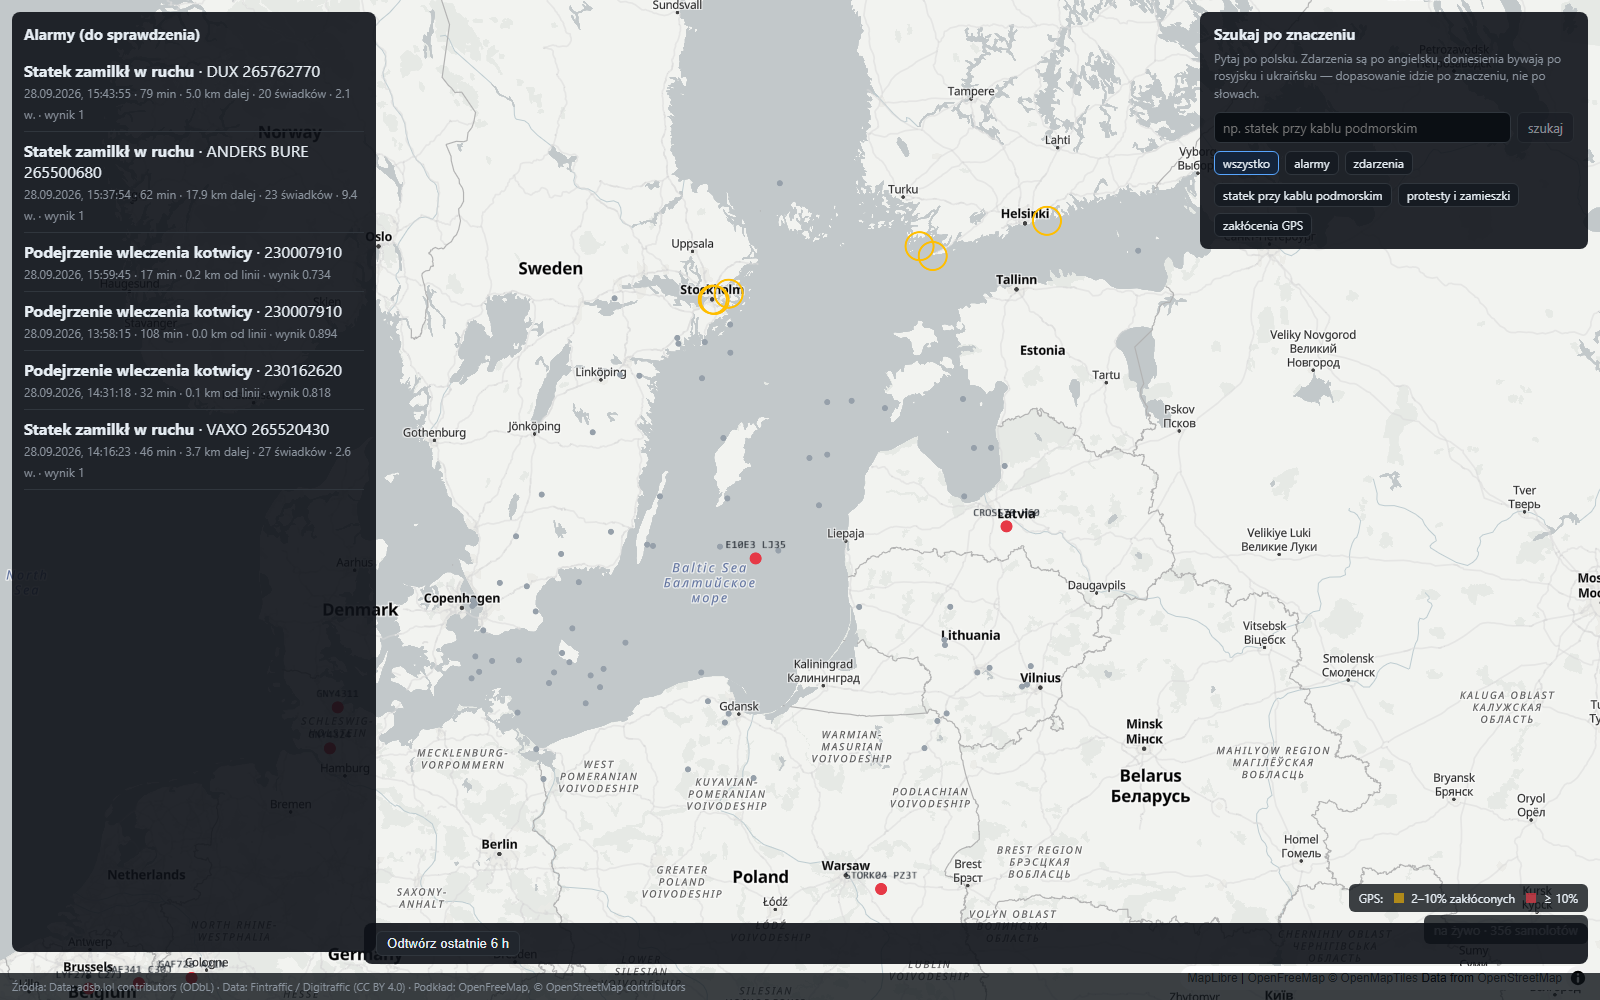
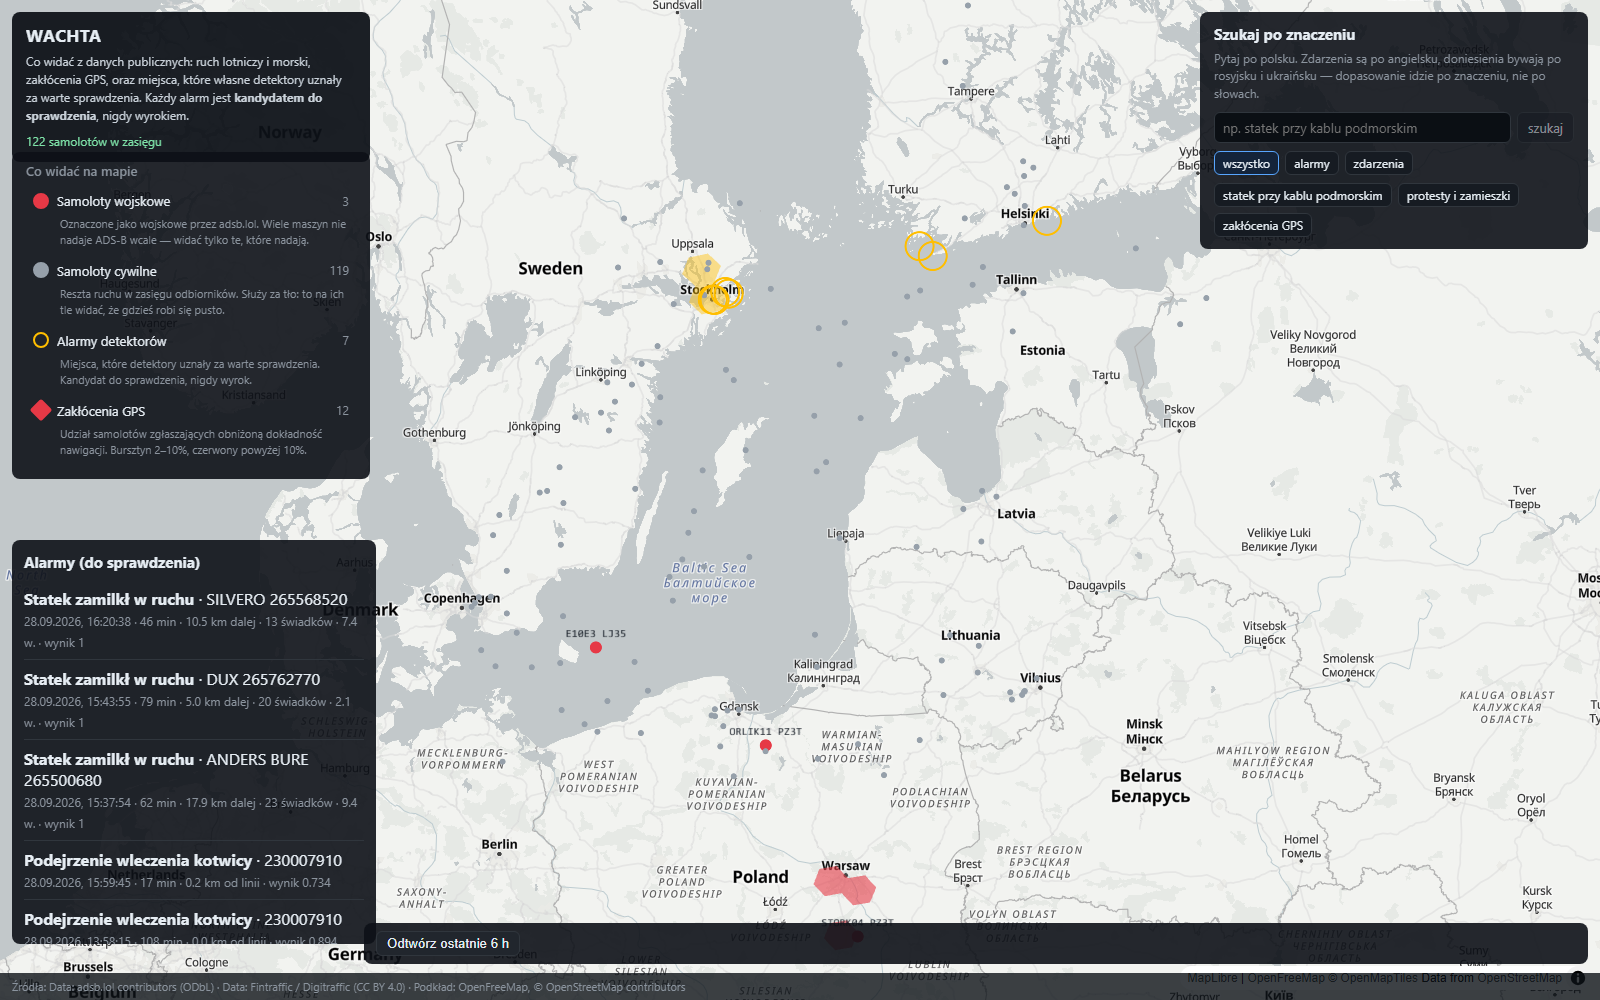
feat: say what the dots mean, and let the reader switch them off
The first person to open the application said: "I have no idea what this is, some
dots, nothing is clickable". That was fair. The only thing on screen that explained
a mark was a small GPS note in a corner; everything else was colour with no key.

Three things were missing and are now there.

A header that says what the application is before the reader has to guess, and
states the one thing that governs how everything else should be read: an alert is
a candidate to check, never a verdict.

A key that is also the switch. Each row names a kind of mark, says in a sentence
what it means, counts how many are on screen, and turns them off. The legend and
the layer control are one thing on purpose - a legend beside a picture gets
skipped, while turning a layer off is the fastest way to find out what its marks
were.

The descriptions carry the limits rather than only the labels: military aircraft
are only the ones that transmit at all, civil traffic is there as the background
that makes an empty patch visible, and alerts are candidates.

And a line that says whether the data is arriving. A map with every layer switched
off looks exactly like a map with no data, and a connected feed with nothing in it
looks exactly like a broken one - so each of those states now says which it is.
The reader is responsible for the first, the system for the others, and conflating
them wastes somebody's afternoon.

Layers are filtered by hiding their DATA rather than the layer, because an empty
[…]

diff --git a/web/src/warstwy.ts b/web/src/warstwy.ts
@@ -1,0 +1,103 @@
+import { GREY, RED } from "./colors";
+
+/**
+ * What is on the map, in words, together with the switch that isolates it.
+ *
+ * The legend and the layer control are one thing here on purpose. A separate legend is a block of
+ * text next to a picture, and people skip it; a legend you can click is how you find out what a
+ * mark means - turn it off, see what disappeared. The first version of this view had neither, and
+ * the first person to open it said "some dots, nothing is clickable, I have no idea what this is".
+ */
+
+export type IdWarstwy = "wojskowe" | "cywilne" | "alarmy" | "zaklocenia";
+
+export interface OpisWarstwy {
+  id: IdWarstwy;
+  nazwa: string;
+  /** One sentence: what the mark means, not what it is called. */
+  opis: string;
+  kolor: string;
+  ksztalt: "kropka" | "obwodka" | "heksagon";
+}
+
+const rgb = ([r, g, b]: [number, number, number]) => `rgb(${r},${g},${b})`;
+
+export const WARSTWY: OpisWarstwy[] = [
+  {
+    id: "wojskowe",
+    nazwa: "Samoloty wojskowe",
+    opis: "Oznaczone jako wojskowe przez adsb.lol. Wiele maszyn nie nadaje ADS-B wcale — widać tylko te, które nadają.",
+    kolor: rgb(RED),
+    ksztalt: "kropka",
+  },
+  {
+    id: "cywilne",
+    nazwa: "Samoloty cywilne",
+    opis: "Reszta ruchu w zasięgu odbiorników. Służy za tło: to na ich tle widać, że gdzieś robi się pusto.",
+    kolor: rgb(GREY),
+    ksztalt: "kropka",
+  },
+  {
+    id: "alarmy",
+    nazwa: "Alarmy detektorów",
+    opis: "Miejsca, które detektory uznały za warte sprawdzenia. Kandydat do sprawdzenia, nigdy wyrok.",
+    kolor: "rgb(255,190,0)",
+    ksztalt: "obwodka",
+  },
+  {
+    id: "zaklocenia",
+    nazwa: "Zakłócenia GPS",
+    opis: "Udział samolotów zgłaszających obniżoną dokładność nawigacji. Bursztyn 2–10%, czerwony powyżej 10%.",
+    kolor: "rgb(230,57,70)",
+    ksztalt: "heksagon",
+  },
+];
+
+export type Widoczne = Record<IdWarstwy, boolean>;
+
+export const WSZYSTKO_WIDOCZNE: Widoczne = {
+  wojskowe: true,
+  cywilne: true,
+  alarmy: true,
+  zaklocenia: true,
+};
+
+export function przelacz(stan: Widoczne, id: IdWarstwy): Widoczne {
+  return { ...stan, [id]: !stan[id] };
+}
+
+/**
+ * Whether the map is showing nothing at all.
+ *
+ * Worth knowing, because a map with every layer switched off looks exactly like a map with no data,
+ * and the second one is somebody's fault while the first one is the reader's own doing.
+ */
+export function wszystkoWylaczone(stan: Widoczne): boolean {
+  return Object.values(stan).every((v) => !v);
+}
+
+/** How many marks a layer currently contributes, for the counter next to its name. */
+export function policz(
+  id: IdWarstwy,
+  liczby: { wojskowe: number; cywilne: number; alarmy: number; zaklocenia: number },
+): number {
+  return liczby[id];
+}
+
+/**
+ * The sentence under the header: what the reader is looking at and how fresh it is.
+ *
+ * Freshness is not decoration. Every layer here is a snapshot of a moment, and a map that does not
+ * say when it was taken invites the reader to assume it is now.
+ */
+export function stanDanych(polaczone: boolean, samolotow: number, sekundOdOdczytu: number | null): string {
+  if (!polaczone) return "Łączenie z serwerem…";
+  if (samolotow === 0) return "Połączono, ale żaden samolot nie jest teraz widoczny.";
+  const wiek =
+    sekundOdOdczytu === null
+      ? ""
+      : sekundOdOdczytu < 60
+        ? " · dane sprzed chwili"
+        : ` · dane sprzed ${Math.round(sekundOdOdczytu / 60)} min`;
+  return `${samolotow} samolotów w zasięgu${wiek}`;
+}

diff --git a/web/src/App.tsx b/web/src/App.tsx
@@ -5,6 +5,7 @@ import { AlertsPanel } from "./components/AlertsPanel";
 import { BALTIC_VIEW, MapView } from "./components/MapView";
 import { ReplayBar } from "./components/ReplayBar";
 import { SearchPanel } from "./components/SearchPanel";
+import { Warstwy } from "./components/Warstwy";
 import { SourcesFooter } from "./components/SourcesFooter";
 import { aircraftLayers } from "./layers/aircraft";
 import { alertsLayer } from "./layers/alerts";
@@ -12,6 +13,7 @@ import { jammingLayer } from "./layers/jamming";
 import { tripsLayer } from "./layers/trips";
 import { useLive } from "./live";
 import { replayBounds, toTrips, type Trip } from "./replay";
+import { stanDanych, WSZYSTKO_WIDOCZNE, type Widoczne } from "./warstwy";
 
 export default function App() {
   const { aircraft, alerts, setAlerts, connected } = useLive();
@@ -20,6 +22,7 @@ export default function App() {
   const [replay, setReplay] = useState<{ trips: Trip[]; start: number; max: number } | null>(null);
   const [currentTime, setCurrentTime] = useState(0);
   const [playing, setPlaying] = useState(false);
+  const [widoczne, setWidoczne] = useState<Widoczne>(WSZYSTKO_WIDOCZNE);
 
   useEffect(() => {
     getJSON<AlertDto[]>("/api/alerts").then(setAlerts).catch(() => undefined);
@@ -53,19 +56,39 @@ export default function App() {
     setPlaying(true);
   };
 
+  // Filtrujemy DANE, nie warstwy: warstwa bez danych nadal sie rysuje (i nadal lapie klikniecia),
+  // a pusta lista znika z mapy calkowicie. Dzieki temu wylaczenie w panelu znaczy to, co widac.
+  const widoczneSamoloty = aircraft.filter((a) =>
+    a.isMilitary ? widoczne.wojskowe : widoczne.cywilne);
+  const widoczneAlarmy = widoczne.alarmy ? alerts : [];
+  const widoczneZaklocenia = widoczne.zaklocenia ? jamming : [];
+
+  const liczby = {
+    wojskowe: aircraft.filter((a) => a.isMilitary && !a.onGround).length,
+    cywilne: aircraft.filter((a) => !a.isMilitary && !a.onGround).length,
+    alarmy: alerts.length,
+    zaklocenia: jamming.length,
+  };
+
   const layers = replay
-    ? [jammingLayer(jamming), tripsLayer(replay.trips, currentTime), alertsLayer(alerts)]
-    : [jammingLayer(jamming), ...aircraftLayers(aircraft), alertsLayer(alerts)];
+    ? [jammingLayer(widoczneZaklocenia), tripsLayer(replay.trips, currentTime), alertsLayer(widoczneAlarmy)]
+    : [jammingLayer(widoczneZaklocenia), ...aircraftLayers(widoczneSamoloty), alertsLayer(widoczneAlarmy)];
 
   return (
     <div style={{ position: "fixed", inset: 0 }}>
       <MapView layers={layers} viewState={view} onViewStateChange={setView} />
       <AlertsPanel alerts={alerts} onSelect={(a) => setView({ ...view, longitude: a.lon, latitude: a.lat, zoom: 8 })} />
       <SearchPanel />
-      <div className="status status-pod-szukaniem">{connected ? `na żywo · ${aircraft.length} samolotów` : "łączenie…"}</div>
-      <div className="legend">
-        GPS: <i className="amber" /> 2–10% zakłóconych <i className="red" /> ≥ 10%
-      </div>
+      <header className="naglowek">
+        <h1>WACHTA</h1>
+        <p>
+          Co widać z danych publicznych: ruch lotniczy i morski, zakłócenia GPS, oraz miejsca, które
+          własne detektory uznały za warte sprawdzenia. Każdy alarm jest <b>kandydatem do
+          sprawdzenia</b>, nigdy wyrokiem.
+        </p>
+        <p className="stan">{stanDanych(connected, liczby.wojskowe + liczby.cywilne, null)}</p>
+      </header>
+      <Warstwy widoczne={widoczne} onZmiana={setWidoczne} liczby={liczby} />
       <ReplayBar
         active={!!replay}
         onToggle={toggleReplay}

diff --git a/web/src/warstwy.test.ts b/web/src/warstwy.test.ts
@@ -1,0 +1,89 @@
+import { describe, expect, it } from "vitest";
+import {
+  przelacz,
+  stanDanych,
+  WARSTWY,
+  wszystkoWylaczone,
+  WSZYSTKO_WIDOCZNE,
+} from "./warstwy";
+
+/**
+ * Pierwsza osoba, ktora otworzyla aplikacje, powiedziala: "nie wiem o co chodzi, jakies kropki,
+ * nic sie nie da klikac". Te testy pilnuja tego, co z tego wyniklo.
+ */
+
+describe("legenda", () => {
+  it("kazdy znak na mapie ma nazwe I zdanie, co znaczy", () => {
+    // Sama nazwa nie wystarczy: "alarmy" nie mowi, ze to kandydat do sprawdzenia, a nie wyrok.
+    for (const w of WARSTWY) {
+      expect(w.nazwa, w.id).toBeTruthy();
+      expect(w.opis.length, `${w.id} ma za krotki opis`).toBeGreaterThan(40);
+    }
+  });
+
+  it("opisy mowia o ograniczeniach, a nie tylko o tym, co widac", () => {
+    const wojskowe = WARSTWY.find((w) => w.id === "wojskowe");
+    expect(wojskowe?.opis).toMatch(/nie nadaje|widać tylko/i);
+    const alarmy = WARSTWY.find((w) => w.id === "alarmy");
+    expect(alarmy?.opis).toMatch(/sprawdzenia|nigdy wyrok/i);
+  });
+
+  it("kazda warstwa ma kolor i ksztalt, zeby znak w legendzie wygladal jak ten na mapie", () => {
+    for (const w of WARSTWY) {
+      expect(w.kolor, w.id).toMatch(/^rgb\(/);
+      expect(["kropka", "obwodka", "heksagon"]).toContain(w.ksztalt);
+    }
+  });
+});
+
+describe("wlaczanie i wylaczanie", () => {
+  it("na starcie widac wszystko", () => {
+    expect(Object.values(WSZYSTKO_WIDOCZNE).every(Boolean)).toBe(true);
+  });
+
+  it("przelaczenie zmienia tylko jedna warstwe", () => {
+    const po = przelacz(WSZYSTKO_WIDOCZNE, "cywilne");
+    expect(po.cywilne).toBe(false);
+    expect(po.wojskowe).toBe(true);
+    expect(po.alarmy).toBe(true);
+  });
+
+  it("przelaczenie dwa razy wraca do punktu wyjscia", () => {
+    expect(przelacz(przelacz(WSZYSTKO_WIDOCZNE, "alarmy"), "alarmy")).toEqual(WSZYSTKO_WIDOCZNE);
+  });
+
+  it("nie zmienia stanu w miejscu", () => {
+    const przed = { ...WSZYSTKO_WIDOCZNE };
+    przelacz(WSZYSTKO_WIDOCZNE, "alarmy");
+    expect(WSZYSTKO_WIDOCZNE).toEqual(przed);
+  });
+
+  it("wie, kiedy mapa jest pusta z winy uzytkownika", () => {
+    // Mapa z wylaczonymi warstwami wyglada identycznie jak mapa bez danych, a to dwie rozne rzeczy:
+    // za jedna odpowiada czytelnik, za druga system.
+    expect(wszystkoWylaczone(WSZYSTKO_WIDOCZNE)).toBe(false);
+    const nic = { wojskowe: false, cywilne: false, alarmy: false, zaklocenia: false };
+    expect(wszystkoWylaczone(nic)).toBe(true);
+  });
+});
+
+describe("stan danych", () => {
+  it("brak polaczenia mowi o polaczeniu, nie o braku samolotow", () => {
+    expect(stanDanych(false, 0, null)).toMatch(/Łączenie/);
+  });
+
+  it("polaczenie bez samolotow mowi wprost, ze polaczenie jest", () => {
+    // Inaczej pusta mapa wyglada jak awaria, a jest poprawnym stanem.
+    expect(stanDanych(true, 0, null)).toMatch(/Połączono/);
+  });
+
+  it("podaje wiek danych, bo migawka bez godziny udaje terazniejszosc", () => {
+    expect(stanDanych(true, 120, 30)).toMatch(/sprzed chwili/);
+    expect(stanDanych(true, 120, 600)).toMatch(/sprzed 10 min/);
+    expect(stanDanych(true, 120, null)).not.toMatch(/sprzed/);
+  });
+
+  it("liczy samoloty", () => {
+    expect(stanDanych(true, 442, null)).toMatch(/442 samolot/);
+  });
+});

diff --git a/web/src/styles.css b/web/src/styles.css
@@ -204,3 +204,82 @@ body {
    tekst. Schodzi nad pasek odtwarzania, obok statusu: obie rzeczy sa stalymi objasnieniami mapy,
    wiec ich miejsce jest przy mapie, a nie w obszarze, ktory sluzy do zadawania pytan. */
 .legend { top: auto; bottom: 88px; right: 12px; }
+
+/* NAGLOWEK. Pierwsza rzecz, ktora ktos czyta, i jedyna szansa, zeby powiedziec, na co patrzy.
+   Bez tego aplikacja zaczyna sie od kropek na mapie - a pierwsza osoba, ktora ja otworzyla,
+   powiedziala doslownie "nie wiem o co chodzi, jakies kropki". */
+.naglowek {
+  position: absolute;
+  top: 12px;
+  left: 12px;
+  width: 330px;
+  padding: 12px 14px;
+  background: #0d1117f0;
+  border-radius: 8px;
+}
+.naglowek h1 { margin: 0 0 6px; font-size: 17px; letter-spacing: 0.5px; }
+.naglowek p { margin: 0; font-size: 12px; line-height: 1.5; color: #c9d1d9; }
+.naglowek .stan { margin-top: 8px; color: #7ee2a8; font-size: 12px; }
+
+/* LEGENDA, KTORA JEST TEZ WYLACZNIKIEM. Osobna legenda to podpis obok obrazka i ludzie ja pomijaja;
+   legenda, ktora da sie kliknac, jest najszybszym sposobem na sprawdzenie, co znaczyl dany znak -
+   wylacz go i zobacz, co znikneło. */
+.warstwy {
+  position: absolute;
+  top: 152px;
+  left: 12px;
+  width: 330px;
+  max-height: calc(100vh - 360px);
+  overflow-y: auto;
+  padding: 10px 14px 12px;
+  background: #0d1117e6;
+  border-radius: 8px;
+}
+.warstwy h2 { margin: 0 0 8px; font-size: 13px; color: #8b949e; font-weight: 600; }
+.warstwy ul { list-style: none; margin: 0; padding: 0; }
+.warstwy li { margin-bottom: 9px; }
+
+.warstwy li > button {
+  display: flex;
+  align-items: center;
+  gap: 8px;
+  width: 100%;
+  padding: 4px 6px;
+  border: 1px solid transparent;
+  border-radius: 6px;
+  background: none;
+  color: inherit;
+  font: inherit;
+  text-align: left;
+  cursor: pointer;
+}
+.warstwy li > button:hover { background: #161b22; }
+.warstwy li > button:focus-visible { outline: 2px solid #58a6ff; outline-offset: 1px; }
+
+/* Wylaczona warstwa ma byc widocznie wylaczona, ale dalej czytelna - to nadal jest legenda. */
+.warstwy .wylaczona { opacity: 0.42; }
+.warstwy .wylaczona .znak { background: none !important; }
+
+.warstwy .nazwa { flex: 1; font-size: 13px; }
+.warstwy .liczba { color: #8b949e; font-size: 12px; font-variant-numeric: tabular-nums; }
+.warstwy .opis { margin: 2px 0 0 34px; font-size: 11px; line-height: 1.45; color: #8b949e; }
+
+/* Znak w legendzie ma wygladac jak znak na mapie, a nie jak kwadracik obok napisu. */
+.znak { display: inline-block; width: 12px; height: 12px; border: 2px solid transparent; flex: none; }
+.znak.kropka { border-radius: 50%; }
+.znak.obwodka { border-radius: 50%; background: none !important; }
+.znak.heksagon { border-radius: 2px; transform: rotate(45deg); }
+
+.warstwy .ostrzezenie {
+  margin: 8px 0 0;
+  padding: 7px 9px;
+  border-left: 3px solid #d29922;
+  background: #1c1710;
+  font-size: 11px;
+  line-height: 1.45;
+  color: #e3b341;
+}
+
+/* Panel alarmow schodzi pod legende. Kolejnosc od gory jest kolejnoscia czytania: czym to jest,
+   co na tym widac, co system znalazl. */
+.panel { top: auto; bottom: 56px; max-height: 38vh; }

diff --git a/web/src/components/Warstwy.tsx b/web/src/components/Warstwy.tsx
@@ -1,0 +1,52 @@
+import { przelacz, WARSTWY, wszystkoWylaczone, type IdWarstwy, type Widoczne } from "../warstwy";
+
+/**
+ * The key to the map, which is also the switch for it.
+ *
+ * Each row names one kind of mark, says in a sentence what it means, shows how many of them are on
+ * screen, and turns them off. Turning a layer off is the fastest way to learn what its marks were -
+ * faster than reading a legend, which is why the legend is the control rather than a caption beside
+ * it.
+ */
+export function Warstwy({
+  widoczne,
+  onZmiana,
+  liczby,
+}: {
+  widoczne: Widoczne;
+  onZmiana: (w: Widoczne) => void;
+  liczby: Record<IdWarstwy, number>;
+}) {
+  return (
+    <section className="warstwy" aria-label="Co widać na mapie">
+      <h2>Co widać na mapie</h2>
+      <ul>
+        {WARSTWY.map((w) => {
+          const wlaczona = widoczne[w.id];
+          return (
+            <li key={w.id}>
+              <button
+                type="button"
+                className={wlaczona ? "" : "wylaczona"}
+                aria-pressed={wlaczona}
+                onClick={() => onZmiana(przelacz(widoczne, w.id))}
+                title={wlaczona ? "Kliknij, żeby ukryć" : "Kliknij, żeby pokazać"}
+              >
+                <span className={`znak ${w.ksztalt}`} style={{ background: w.kolor, borderColor: w.kolor }} />
+                <span className="nazwa">{w.nazwa}</span>
+                <span className="liczba">{liczby[w.id]}</span>
+              </button>
+              <p className="opis">{w.opis}</p>
+            </li>
+          );
+        })}
+      </ul>
+      {wszystkoWylaczone(widoczne) && (
+        <p className="ostrzezenie">
+          Wszystkie warstwy są wyłączone — mapa jest pusta, bo tak ją ustawiłeś, a nie dlatego, że nic
+          się nie dzieje.
+        </p>
+      )}
+    </section>
+  );
+}
